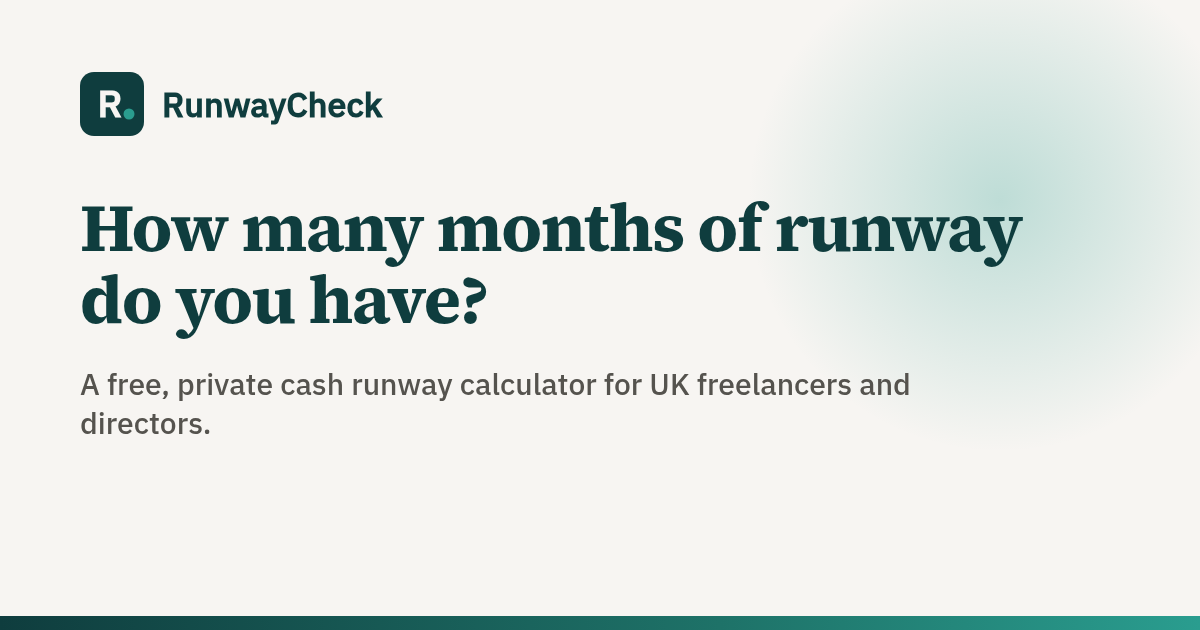
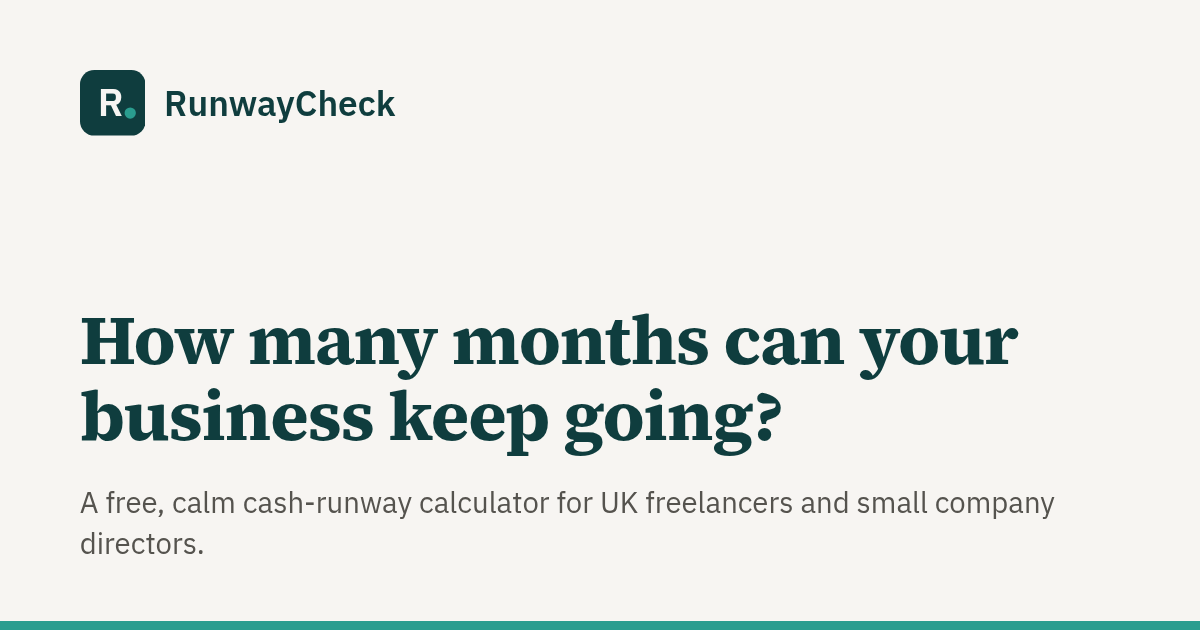
Publish site 2026-10-14 13:13 BST

diff --git a/privacy.html b/privacy.html
@@ -3,7 +3,7 @@
 <head>
   <meta charset="utf-8">
   <meta name="viewport" content="width=device-width, initial-scale=1">
-  <meta http-equiv="Content-Security-Policy" content="default-src 'self'; img-src 'self' data:; style-src 'self'; script-src 'self'; font-src 'self'; form-action 'self' mailto:; base-uri 'self'; frame-ancestors 'none'">
+  <meta http-equiv="Content-Security-Policy" content="default-src 'self'; img-src 'self' data:; style-src 'self'; script-src 'self'; font-src 'self'; form-action 'self'; base-uri 'self'; object-src 'none'">
   <meta name="referrer" content="strict-origin-when-cross-origin">
   <title>Privacy notice — RunwayCheck</title>
   <meta name="description" content="How RunwayCheck handles your data: what we collect, why, how long we keep it and your rights under UK GDPR.">
@@ -12,6 +12,7 @@
   <meta property="og:title" content="Privacy notice — RunwayCheck">
   <meta property="og:description" content="How RunwayCheck handles your data: what we collect, why, how long we keep it and your rights under UK GDPR.">
   <meta property="og:image" content="https://evanturner557-del.github.io/runwaycheck/assets/og.png">
+  <meta property="og:url" content="https://evanturner557-del.github.io/runwaycheck/privacy.html">
   <meta name="twitter:card" content="summary_large_image">
   <link rel="canonical" href="https://evanturner557-del.github.io/runwaycheck/privacy.html">
   <link rel="icon" href="assets/favicon.svg" type="image/svg+xml">
@@ -24,9 +25,9 @@
 <body>
 <a class="skip-link" href="#main">Skip to content</a>
 <header class="site-header"><div class="container"><a class="brand" href="./"><svg viewBox="0 0 64 64" aria-hidden="true"><rect width="64" height="64" rx="14" fill="#0F3D3E"/><text x="30" y="45" text-anchor="middle" font-family="Source Serif 4, Georgia, serif" font-weight="700" font-size="38" fill="#F7F5F2">R</text><circle cx="49" cy="42" r="5.5" fill="#2A9D8F"/></svg>RunwayCheck</a><a class="btn btn--ghost btn--sm x-s1" href="./">Back to home</a></div></header>
-<main id="main" class="legal"><div class="container"><h1>Privacy notice</h1><p class="updated">Last updated 10 October 2026</p>
+<main id="main" class="legal"><div class="container"><h1>Privacy notice</h1><p class="updated">Last updated 14 October 2026</p>
 <h2>Who we are</h2>
-<p>RunwayCheck is a trading name of a sole trader based in the UK. RunwayCheck offers a free cash runway calculator and optional cashflow planning sessions for UK freelancers and small company directors. We are the “controller” (the organisation responsible) for the personal data described here. For anything here, email <a href="mailto:localreply@agentmail.to">localreply@agentmail.to</a>.</p>
+<p><span>Operated by a UK sole trader trading as RunwayCheck. Contact: evanturner557+runwaycheck@gmail.com. Postal address available on written request.</span> RunwayCheck offers a free cash runway calculator and optional cashflow planning sessions for UK freelancers and small company directors. We are the “controller” (the organisation responsible) for the personal data described here. For anything here, email <a href="mailto:evanturner557+runwaycheck@gmail.com">evanturner557+runwaycheck@gmail.com</a>.</p>
 <h2>The calculator</h2>
 <p>The calculator runs entirely in your browser. The figures you type are never sent to us or stored by us.</p>
 <h2>What we collect</h2>
@@ -36,7 +37,7 @@
   <li><strong>Payments</strong>, once open, are handled by Stripe, which tells us your name, email, billing details, the last four digits of your card and whether payment succeeded. We never see your full card number.</li>
 </ul>
 <p>Money can be a stressful subject. We use what you tell us only to run your session. If you tell us you are in financial difficulty, we will use that only to point you to free help (such as Business Debtline or MoneyHelper), never to sell you anything.</p>
-<h2>Our inbox</h2><p>Emails to localreply@agentmail.to go to a shared, receive-only inbox that the same owner uses for a few small businesses. The inbox is stored by our provider, AgentMail, which hosts our email inbox. We use your message only to answer you about RunwayCheck, and we keep it for up to 12 months after our last contact.</p><h2>Cookies and analytics</h2>
+<h2>Our inbox</h2><p>Emails to evanturner557+runwaycheck@gmail.com go to the owner's Gmail inbox via a plus-address used only for RunwayCheck. Google provides the mailbox. We use your message only to deal with your enquiry about RunwayCheck, and we keep it for up to 12 months after our last contact.</p><h2>Cookies and analytics</h2>
 <p>This website sets no cookies and loads no third-party trackers. Fonts are served from our own site. Our web host keeps standard server logs (such as IP addresses) for security.</p>
 <h2>Why we use your data (lawful basis)</h2>
 <ul>
@@ -48,16 +49,17 @@
 <p>We never sell your data.</p>
 <h2>Who we share it with</h2>
 <ul>
+  <li>Google (Gmail), which hosts our email inbox;</li>
   <li>Stripe, for payments (once payments open);</li>
   <li>our website host (GitHub Pages, run by GitHub, Inc.).</li>
 </ul>
-<p>Some of these providers are based in, or use servers in, the United States. We are confirming the contract terms and the legal basis each provider uses to protect personal data sent outside the UK. You can ask us for details at any time.</p>
+<p>Google and GitHub are based in the United States, so personal data we share with them may be stored or processed there. GitHub handles our website host’s visitor logs under its own privacy statement. GitHub relies on the UK Extension to the EU–US Data Privacy Framework (the ‘UK–US data bridge’) for transfers from the UK (see <a href="https://docs.github.com/en/site-policy/privacy-policies/github-general-privacy-statement" rel="noopener">GitHub’s privacy statement</a>). Emails sent to us are handled under <a href="https://policies.google.com/privacy" rel="noopener">Google’s privacy policy</a>. Please don’t send us sensitive personal information by email. You can ask us for details at any time.</p>
 <h2>How long we keep it</h2>
-<p>Enquiries: up to 12 months after our last contact. You keep your own copy of the sheet. Payment records: for as long as tax law requires (at least 5 years after the 31 January tax-return deadline for the year concerned).</p>
+<p>Enquiries that don’t lead to an order: up to 12 months after our last contact. Session details (the figures you share and our copies of your sheet and summary) are deleted 30 days after we send your summary; you keep your own copy. We keep only a basic order record (your name, email, date, what you bought and the amount) for as long as tax law requires (at least 5 years after the 31 January tax-return deadline for the year concerned).</p>
 <h2>Your rights</h2>
-<p>You can ask to see the personal data we hold about you, to correct it, to delete it, to restrict or object to how we use it, or to receive it in a portable format. Email us and we will respond within one month.</p>
+<p>You can ask to see the personal data we hold about you, to correct it, to delete it, to restrict or object to how we use it, or to receive it in a portable format. Email us to ask. Requests sent to our inbox are handled by the owner (not by automatic replies) within one month, as the law requires.</p>
 <h2>Complaints</h2>
-<p>If you are unhappy with how we have handled your personal data, please tell us first by emailing us at <a href="mailto:localreply@agentmail.to">localreply@agentmail.to</a> with “Data complaint” in the subject line. We will acknowledge it within 30 days, look into it without undue delay, keep you updated and tell you the outcome. You can also complain to the Information Commissioner’s Office at <a href="https://ico.org.uk/make-a-complaint/" rel="noopener">ico.org.uk/make-a-complaint</a>.</p>
+<p>If you are unhappy with how we have handled your personal data, please tell us first by emailing us at <a href="mailto:evanturner557+runwaycheck@gmail.com">evanturner557+runwaycheck@gmail.com</a> with “Data complaint” in the subject line. The owner will acknowledge it within 30 days, look into it without undue delay, keep you updated and tell you the outcome. You can also complain to the Information Commissioner’s Office at <a href="https://ico.org.uk/make-a-complaint/" rel="noopener">ico.org.uk/make-a-complaint</a>.</p>
 
 </div></main>
 <footer class="site-footer"><div class="container"><div class="footer-base x-s4">

diff --git a/index.html b/index.html
@@ -3,7 +3,7 @@
 <head>
   <meta charset="utf-8">
   <meta name="viewport" content="width=device-width, initial-scale=1">
-  <meta http-equiv="Content-Security-Policy" content="default-src 'self'; img-src 'self' data:; style-src 'self'; script-src 'self'; font-src 'self'; form-action 'self' mailto:; base-uri 'self'; frame-ancestors 'none'">
+  <meta http-equiv="Content-Security-Policy" content="default-src 'self'; img-src 'self' data:; style-src 'self'; script-src 'self'; font-src 'self'; form-action 'self'; base-uri 'self'; object-src 'none'">
   <meta name="referrer" content="strict-origin-when-cross-origin">
   <title>RunwayCheck — free cash runway calculator for UK founders</title>
   <meta name="description" content="How many months can your business keep going? A free, calm cash-runway calculator for UK freelancers and small company directors. Nothing is saved.">
@@ -12,6 +12,7 @@
   <meta property="og:title" content="RunwayCheck — free cash runway calculator for UK founders">
   <meta property="og:description" content="How many months can your business keep going? A free, calm cash-runway calculator for UK freelancers and small company directors. Nothing is saved.">
   <meta property="og:image" content="https://evanturner557-del.github.io/runwaycheck/assets/og.png">
+  <meta property="og:url" content="https://evanturner557-del.github.io/runwaycheck/">
   <meta name="twitter:card" content="summary_large_image">
   <link rel="canonical" href="https://evanturner557-del.github.io/runwaycheck/">
   <link rel="icon" href="assets/favicon.svg" type="image/svg+xml">
@@ -96,7 +97,7 @@
           <p class="price"><b>£0</b><span>free</span></p><ul class="checks"><li><svg aria-hidden="true"><use href="#i-check"/></svg>Instant runway in months</li><li><svg aria-hidden="true"><use href="#i-check"/></svg>Nothing saved or sent</li><li><svg aria-hidden="true"><use href="#i-check"/></svg>No sign-up</li></ul><div class="cta-wrap"><a class="btn btn--ghost btn--block" href="#top-tool" data-cta="tool" data-plan="free">Use the calculator</a></div></article><article class="tier tier--featured"><h3>Cash session</h3><p class="tier__for">A 45-minute call to fill in your 13-week cash sheet together.</p>
           <p class="price"><b>£39</b><span>one-off</span></p><ul class="checks"><li><svg aria-hidden="true"><use href="#i-check"/></svg>45-minute video session</li><li><svg aria-hidden="true"><use href="#i-check"/></svg>Your own 13-week cash sheet</li><li><svg aria-hidden="true"><use href="#i-check"/></svg>Written summary of what your figures show</li></ul><div class="cta-wrap"><a class="btn btn--primary btn--block" href="#contact" data-cta="enquire" data-plan="session">Ask about a session</a><p class="sub">No payment taken yet — we’ll confirm details by email.</p></div></article><article class="tier"><h3>Monthly check-in</h3><p class="tier__for">Keep the plan current with a short monthly call.</p>
           <p class="price"><b>£29</b><span>/ month</span></p><ul class="checks"><li><svg aria-hidden="true"><use href="#i-check"/></svg>20-minute monthly review</li><li><svg aria-hidden="true"><use href="#i-check"/></svg>Sheet updated with you</li><li><svg aria-hidden="true"><use href="#i-check"/></svg>Cancel any time</li></ul><div class="cta-wrap"><a class="btn btn--ghost btn--block" href="#contact" data-cta="enquire" data-plan="checkin">Ask about check-ins</a></div></article></div>
-      <div class="guarantee"><div class="icon"><svg aria-hidden="true"><use href="#i-refund"/></svg></div><p><strong>Refunds.</strong> Refund terms will be confirmed before you pay.</p><a class="btn btn--ghost btn--sm" href="terms.html#refunds">Refund terms</a></div>
+      <div class="guarantee"><div class="icon"><svg aria-hidden="true"><use href="#i-refund"/></svg></div><p><strong>Refunds.</strong> If you book as a consumer, you can cancel within 14 days of booking. Cancel before your session and you get a full refund. Monthly check-ins: a full refund if you cancel within 14 days of first paying and before any check-in.</p><a class="btn btn--ghost btn--sm" href="terms.html#refunds">Refund terms</a></div>
       <p class="fineprint">RunwayCheck gives general cashflow planning help and a simple calculator. It is not financial, investment, debt, credit, tax or legal advice, and RunwayCheck is not authorised or regulated by the Financial Conduct Authority. We don’t recommend financial products, lenders or debt solutions. Results are estimates based only on the figures you enter — not forecasts or guarantees. For tax, speak to an accountant. For free money guidance, see MoneyHelper (moneyhelper.org.uk). If you’re self-employed and worried about debt, Business Debtline (businessdebtline.org, 0800 197 6026) gives free, FCA-regulated debt advice; StepChange (stepchange.org) helps with personal debt.</p>
     </div>
   </section>
@@ -112,10 +113,10 @@
         <span class="eyebrow">Contact</span>
         <h2 class="x-s8">Ask about a cash session</h2>
         <p class="x-s9">Tell us a little about your situation and we&#x27;ll suggest a time.</p>
-        <ul class="contact-points"><li><span class="icon" aria-hidden="true"><svg><use href="#i-mail"/></svg></span><span><b>Email</b>Email us at <a href="mailto:localreply@agentmail.to?subject=RunwayCheck%20enquiry">localreply@agentmail.to</a>. Please put “RunwayCheck” in the subject line — this inbox is shared by a few small businesses run by the same owner.</span></li>
-          <li><span class="icon" aria-hidden="true"><svg><use href="#i-shield"/></svg></span><span><b>Your data</b>Used only to answer you. See our <a href="privacy.html">privacy notice</a>.</span></li></ul>
+        <ul class="contact-points"><li><span class="icon" aria-hidden="true"><svg><use href="#i-mail"/></svg></span><span><b>Email</b>Email us at <a href="mailto:evanturner557+runwaycheck@gmail.com?subject=RunwayCheck%20enquiry">evanturner557+runwaycheck@gmail.com</a>. This is a free Gmail plus-address for RunwayCheck (same owner as our other small brands).</span></li>
+          <li><span class="icon" aria-hidden="true"><svg><use href="#i-shield"/></svg></span><span><b>Your data</b>Used only to deal with your enquiry. See our <a href="privacy.html">privacy notice</a>.</span></li></ul>
       </div>
-      <form class="form" data-contact data-email="localreply@agentmail.to" data-subject="RunwayCheck enquiry" novalidate>
+      <form class="form" data-contact data-email="evanturner557+runwaycheck@gmail.com" data-subject="RunwayCheck enquiry" novalidate>
         <div class="row-2">
           <div class="field"><label for="f-name">Your name</label><input id="f-name" name="name" autocomplete="name" required></div>
           <div class="field"><label for="f-business">Business name</label><input id="f-business" name="business" autocomplete="organization" required></div>
@@ -132,7 +133,7 @@
     </div>
   </section>
   <section class="section section--ink">
-    <div class="container final-cta"><h2>Know your number.</h2><p>Free calculator, optional £39 session. Refund terms will be confirmed before you pay.</p>
+    <div class="container final-cta"><h2>Know your number.</h2><p>Free calculator, optional £39 session. Full refund if you cancel before your session — see <a href="terms.html#refunds">our terms</a>.</p>
       <div class="btn-row"><a class="btn btn--light" href="#top-tool" data-cta="final">Work out my runway</a><a class="btn btn--outline-light" href="#contact" data-cta="final-contact">Ask a question</a></div></div>
   </section>
 </main>

diff --git a/terms.html b/terms.html
@@ -3,7 +3,7 @@
 <head>
   <meta charset="utf-8">
   <meta name="viewport" content="width=device-width, initial-scale=1">
-  <meta http-equiv="Content-Security-Policy" content="default-src 'self'; img-src 'self' data:; style-src 'self'; script-src 'self'; font-src 'self'; form-action 'self' mailto:; base-uri 'self'; frame-ancestors 'none'">
+  <meta http-equiv="Content-Security-Policy" content="default-src 'self'; img-src 'self' data:; style-src 'self'; script-src 'self'; font-src 'self'; form-action 'self'; base-uri 'self'; object-src 'none'">
   <meta name="referrer" content="strict-origin-when-cross-origin">
   <title>Terms — RunwayCheck</title>
   <meta name="description" content="Terms for RunwayCheck: prices, refunds, what the service is and is not, and liability.">
@@ -12,6 +12,7 @@
   <meta property="og:title" content="Terms — RunwayCheck">
   <meta property="og:description" content="Terms for RunwayCheck: prices, refunds, what the service is and is not, and liability.">
   <meta property="og:image" content="https://evanturner557-del.github.io/runwaycheck/assets/og.png">
+  <meta property="og:url" content="https://evanturner557-del.github.io/runwaycheck/terms.html">
   <meta name="twitter:card" content="summary_large_image">
   <link rel="canonical" href="https://evanturner557-del.github.io/runwaycheck/terms.html">
   <link rel="icon" href="assets/favicon.svg" type="image/svg+xml">
@@ -26,7 +27,7 @@
 <header class="site-header"><div class="container"><a class="brand" href="./"><svg viewBox="0 0 64 64" aria-hidden="true"><rect width="64" height="64" rx="14" fill="#0F3D3E"/><text x="30" y="45" text-anchor="middle" font-family="Source Serif 4, Georgia, serif" font-weight="700" font-size="38" fill="#F7F5F2">R</text><circle cx="49" cy="42" r="5.5" fill="#2A9D8F"/></svg>RunwayCheck</a><a class="btn btn--ghost btn--sm x-s1" href="./">Back to home</a></div></header>
 <main id="main" class="legal"><div class="container"><h1>Terms</h1><p class="updated">Last updated 10 October 2026</p>
 <h2>Who we are</h2>
-<p>RunwayCheck is a trading name of a sole trader based in the UK. For anything here, email <a href="mailto:localreply@agentmail.to">localreply@agentmail.to</a>.</p>
+<p><span>Operated by a UK sole trader trading as RunwayCheck. Contact: evanturner557+runwaycheck@gmail.com. Postal address available on written request.</span> For anything here, email <a href="mailto:evanturner557+runwaycheck@gmail.com">evanturner557+runwaycheck@gmail.com</a>.</p>
 <h2>The service and prices</h2>
 <ul>
   <li><strong>Calculator: free.</strong> It runs in your browser and nothing you enter is saved or sent to us. We may change or improve it over time.</li>
@@ -39,7 +40,7 @@
 <p>If you’re a sole trader (or in a partnership) and want help prioritising personal or business debts or credit agreements, please contact <a href="https://businessdebtline.org/" rel="noopener">Business Debtline</a> (0800 197 6026), a free debt advice charity authorised by the Financial Conduct Authority. Debt advice to individuals, including sole traders, is regulated by the FCA, and RunwayCheck is not authorised to give it. For free money guidance, see <a href="https://www.moneyhelper.org.uk/" rel="noopener">MoneyHelper</a>. If you’re a company director worried your company can’t pay its debts, speak to an accountant or a licensed insolvency practitioner promptly. For tax questions, speak to an accountant or HMRC.</p>
 <p>RunwayCheck is not authorised or regulated by the Financial Conduct Authority. Calculator results and cash sheets are estimates based only on the figures you give, assuming nothing else changes. They are not forecasts or guarantees, and decisions about your money remain yours.</p>
 <h2 id="refunds">Refunds</h2>
-<p>Refund terms will be confirmed before you pay. This is in addition to your right to cancel below and your other legal rights.</p>
+<p>Your refund rights are set out under “Your right to cancel” below. They sit alongside your other legal rights.</p>
 <h2>Your right to cancel</h2>
 <p>If you book as a consumer, you can cancel within 14 days of booking for any reason by emailing us or using the form below, and we’ll refund you within 14 days.</p>
 <ul>
@@ -47,13 +48,13 @@
   <li>Monthly check-in: if you cancel within 14 days of first paying and no check-in has taken place, you get a full refund. After that, cancellation takes effect at the end of the month you have paid for.</li>
 </ul>
 <p>Model cancellation form (you don’t have to use it):<br>
-To RunwayCheck , localreply@agentmail.to:<br>
+To RunwayCheck , evanturner557+runwaycheck@gmail.com:<br>
 I hereby give notice that I cancel my contract for the supply of the following service: ______<br>
 Booked on: ______ · Name: ______ · Address: ______ · Date: ______</p>
 <h2>Liability</h2>
 <p>Nothing in these terms limits our liability for death or personal injury caused by our negligence, for fraud, or for anything else the law does not allow us to limit. Nothing affects your rights under the Consumer Rights Act 2015, including your right to a service carried out with reasonable care and skill. Subject to that, our total liability to you is limited to the amount you paid us for the service in question. If you are a business customer, we are not liable for loss of profit, revenue or business opportunity.</p>
 <h2>Complaints, changes and law</h2>
-<p>If something goes wrong, email us at <a href="mailto:localreply@agentmail.to">localreply@agentmail.to</a> and we will try to put it right quickly. The version of these terms shown when you book applies to your booking. These terms are governed by the law of England and Wales. If you are a consumer living elsewhere in the UK, you can also rely on the consumer protections where you live and bring a claim in your local courts.</p>
+<p>If something goes wrong, email us at <a href="mailto:evanturner557+runwaycheck@gmail.com">evanturner557+runwaycheck@gmail.com</a>. The owner will look into it and try to put it right. The version of these terms shown when you book applies to your booking. These terms are governed by the law of England and Wales. If you are a consumer living elsewhere in the UK, you can also rely on the consumer protections where you live and bring a claim in your local courts.</p>
 
 </div></main>
 <footer class="site-footer"><div class="container"><div class="footer-base x-s4">

diff --git a/404.html b/404.html
@@ -3,7 +3,7 @@
 <head>
   <meta charset="utf-8">
   <meta name="viewport" content="width=device-width, initial-scale=1">
-  <meta http-equiv="Content-Security-Policy" content="default-src 'self'; img-src 'self' data:; style-src 'self'; script-src 'self'; font-src 'self'; form-action 'self' mailto:; base-uri 'self'; frame-ancestors 'none'">
+  <meta http-equiv="Content-Security-Policy" content="default-src 'self'; img-src 'self' data:; style-src 'self'; script-src 'self'; font-src 'self'; form-action 'self'; base-uri 'self'; object-src 'none'">
   <meta name="referrer" content="strict-origin-when-cross-origin">
   <title>Page not found — RunwayCheck</title>
   <meta name="description" content="This page could not be found. Head back to the RunwayCheck home page.">
@@ -12,6 +12,7 @@
   <meta property="og:title" content="Page not found — RunwayCheck">
   <meta property="og:description" content="This page could not be found. Head back to the RunwayCheck home page.">
   <meta property="og:image" content="https://evanturner557-del.github.io/runwaycheck/assets/og.png">
+  <meta property="og:url" content="https://evanturner557-del.github.io/runwaycheck/404.html">
   <meta name="twitter:card" content="summary_large_image">
   <link rel="icon" href="assets/favicon.svg" type="image/svg+xml">
   <link rel="stylesheet" href="_shared/kit.css">

diff --git a/_shared/kit.css b/_shared/kit.css
@@ -323,3 +323,5 @@ html[data-paused="true"] [data-cta="checkout"] { pointer-events: none; opacity: 
 .launch-facts li { display: flex; gap: .7rem; align-items: flex-start; font-size: .9375rem; color: var(--text); background: var(--bg); border-radius: 12px; padding: .85rem .9rem; }
 .launch-facts .icon { width: 34px; height: 34px; border-radius: 10px; margin: 0; flex: none; }
 .launch-facts .icon svg { width: 18px; height: 18px; }
+
+.section--ink a:not(.btn){color:#fff;text-decoration:underline}

diff --git a/assets/config.js b/assets/config.js
@@ -2,5 +2,5 @@ window.SITE_CONFIG = {
   killSwitch: false,
   "checkoutMode": "none",
   "checkoutUrl": null,
-  "contactEmail": "localreply@agentmail.to"
+  "contactEmail": "evanturner557+runwaycheck@gmail.com"
 };
